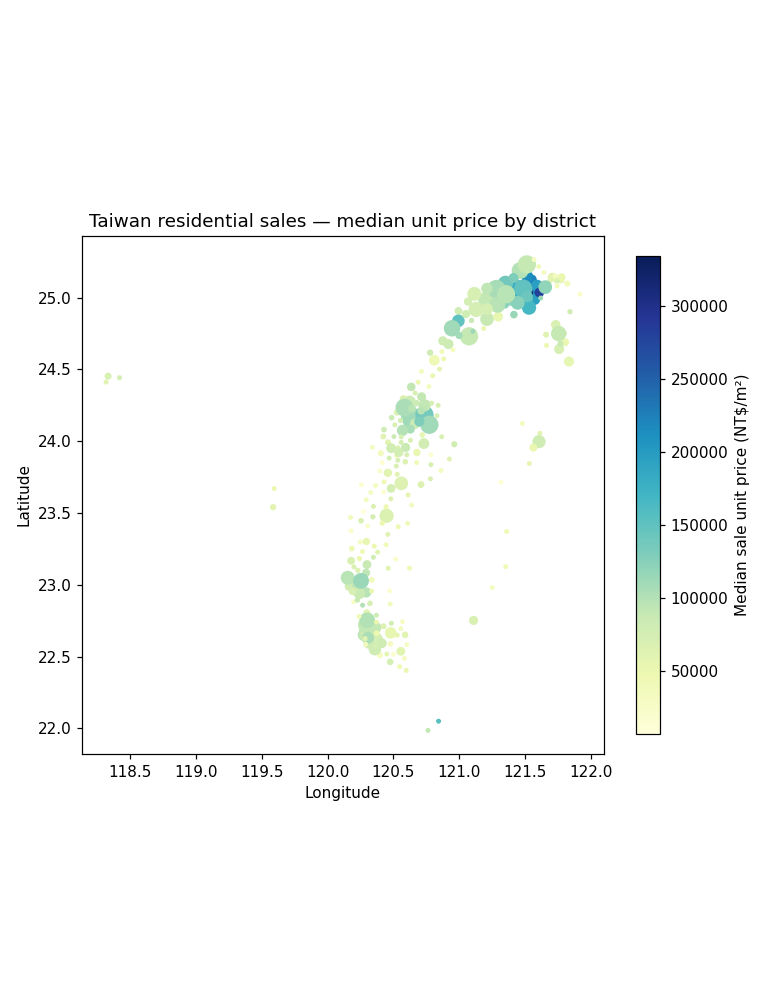
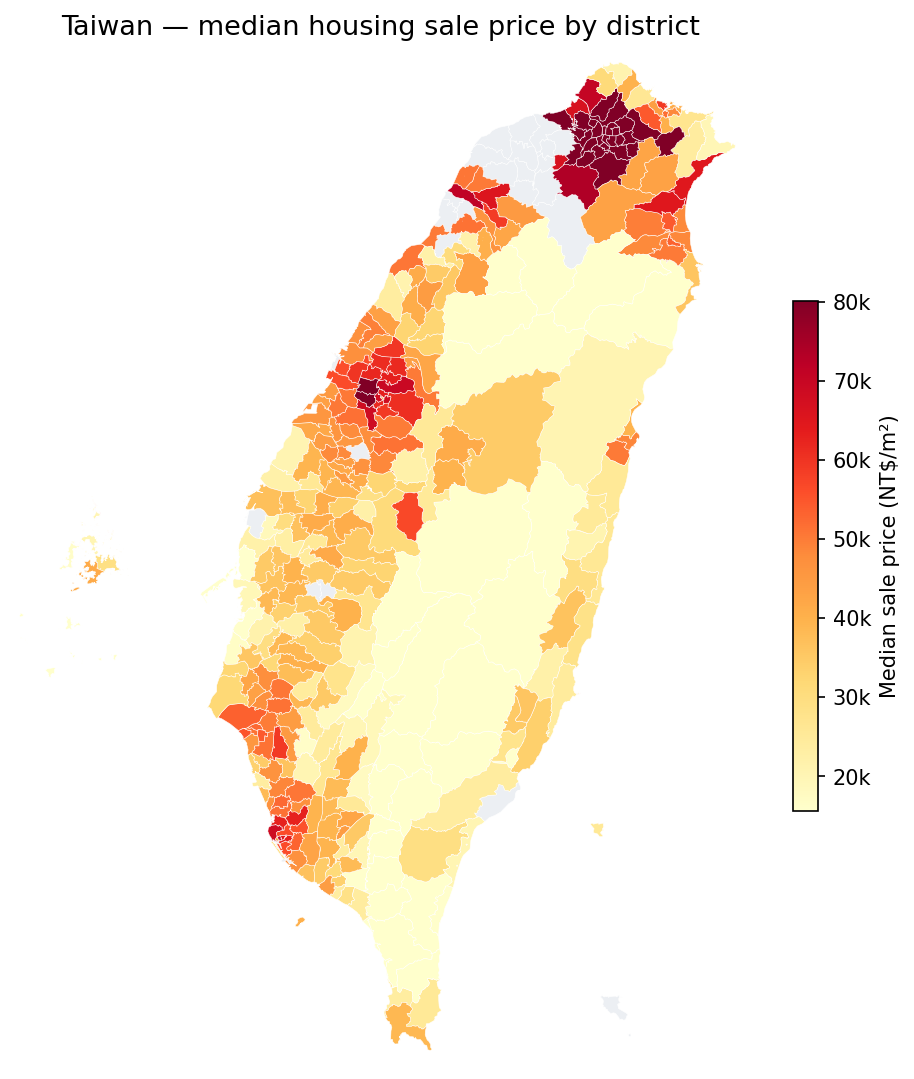
Add Taiwan choropleth map to README (replaces lon/lat plot)

Changed region(s): [[0.0, 0.0606, 0.9974, 0.9697], [0.2182, 0.0, 0.7792, 0.0303], [0.0623, 0.0, 0.187, 0.0303]]

diff --git a/spatialAnalysis/makeDistrictMap.py b/spatialAnalysis/makeDistrictMap.py
@@ -1,0 +1,55 @@
+"""Render the README hero image: a filled map of Taiwan shaded by each district's
+median housing sale price. Built entirely from the shipped web-data files (township
+polygons + per-district aggregates) — no database needed.
+
+    python spatialAnalysis/makeDistrictMap.py
+"""
+from __future__ import annotations
+
+import os
+
+import matplotlib
+matplotlib.use("Agg")
+import geopandas as gpd  # noqa: E402
+import numpy as np  # noqa: E402
+import matplotlib.pyplot as plt  # noqa: E402
+from matplotlib.ticker import FuncFormatter  # noqa: E402
+
+HERE = os.path.dirname(os.path.abspath(__file__))
+ROOT = os.path.dirname(HERE)
+OUT = os.path.join(HERE, "districtMedianUnitPrice.png")
+
+
+def main() -> int:
+    polys = gpd.read_file(os.path.join(ROOT, "geoReference", "townshipBoundaries.geojson"))
+    agg = gpd.read_file(os.path.join(ROOT, "webApp", "dataFiles", "districtAggregates.geojson"))
+    price = {(r.cityCode, r.districtZh): r.saleMedUnitPrice for r in agg.itertuples()
+             if r.saleMedUnitPrice is not None}
+    polys["price"] = [price.get((r.cityCode, r.town)) for r in polys.itertuples()]
+    print(f"matched {polys['price'].notna().sum()}/{len(polys)} districts to a median price")
+
+    vals = polys["price"].dropna()
+    vmin, vmax = float(np.percentile(vals, 8)), float(np.percentile(vals, 92))
+
+    fig, ax = plt.subplots(figsize=(6.4, 8.4))
+    fig.patch.set_facecolor("white")
+    # districts with no sales -> light grey, so the full Taiwan landmass still reads as a map
+    polys[polys["price"].isna()].plot(ax=ax, color="#eceff3", edgecolor="white", linewidth=0.25)
+    polys[polys["price"].notna()].plot(
+        ax=ax, column="price", cmap="YlOrRd", vmin=vmin, vmax=vmax,
+        edgecolor="white", linewidth=0.25, legend=True,
+        legend_kwds={"label": "Median sale price (NT$/m²)", "shrink": 0.42,
+                     "format": FuncFormatter(lambda x, _: f"{x / 1000:.0f}k")})
+    # frame the main island + Penghu (crops the far-west Kinmen / far-north Matsu specks)
+    ax.set_xlim(119.3, 122.05)
+    ax.set_ylim(21.85, 25.35)
+    ax.set_axis_off()
+    ax.set_title("Taiwan — median housing sale price by district", fontsize=13, pad=6)
+    fig.tight_layout()
+    fig.savefig(OUT, dpi=150, bbox_inches="tight", facecolor="white")
+    print(f"wrote {OUT} ({os.path.getsize(OUT) / 1e3:.0f} KB)")
+    return 0
+
+
+if __name__ == "__main__":
+    raise SystemExit(main())

diff --git a/README.md b/README.md
@@ -6,6 +6,8 @@ no paywall, no backend.
 
 **Try it here → https://kadentato.github.io/taiwanHousing/**
 
+![A map of Taiwan with every district shaded by its median housing sale price — the Taipei area and the west-coast cities glow red, while rural districts stay pale.](spatialAnalysis/districtMedianUnitPrice.png)
+
 ## What it is
 
 Every property sale in Taiwan gets reported to the government and published as open data, but the raw